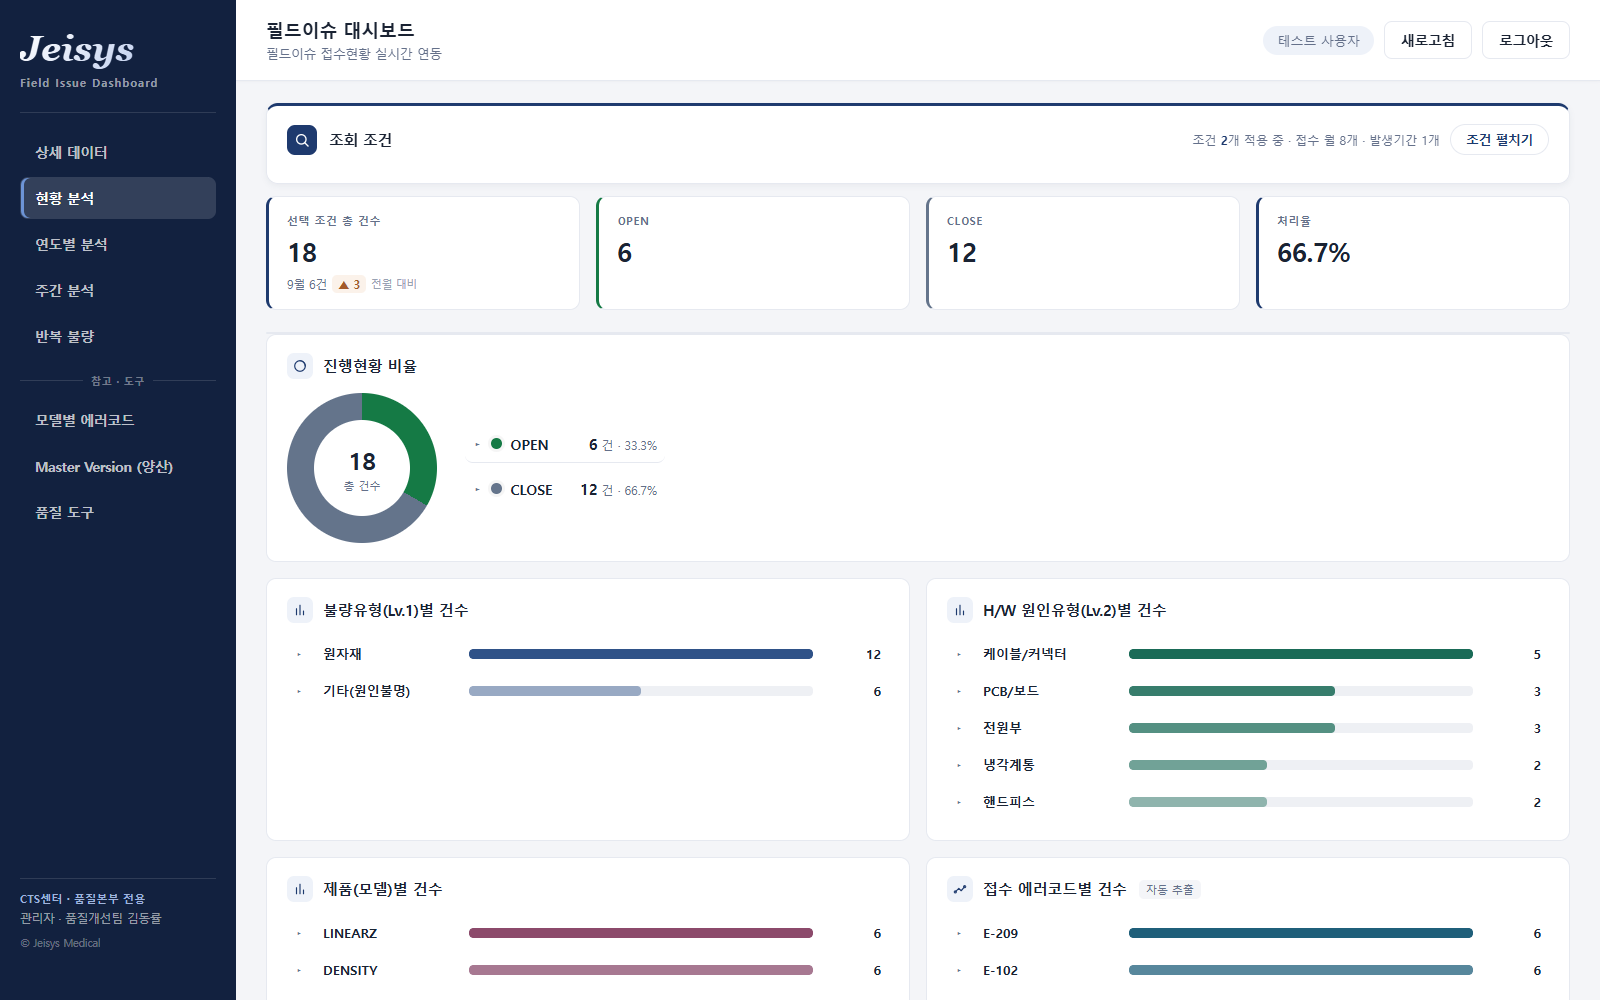
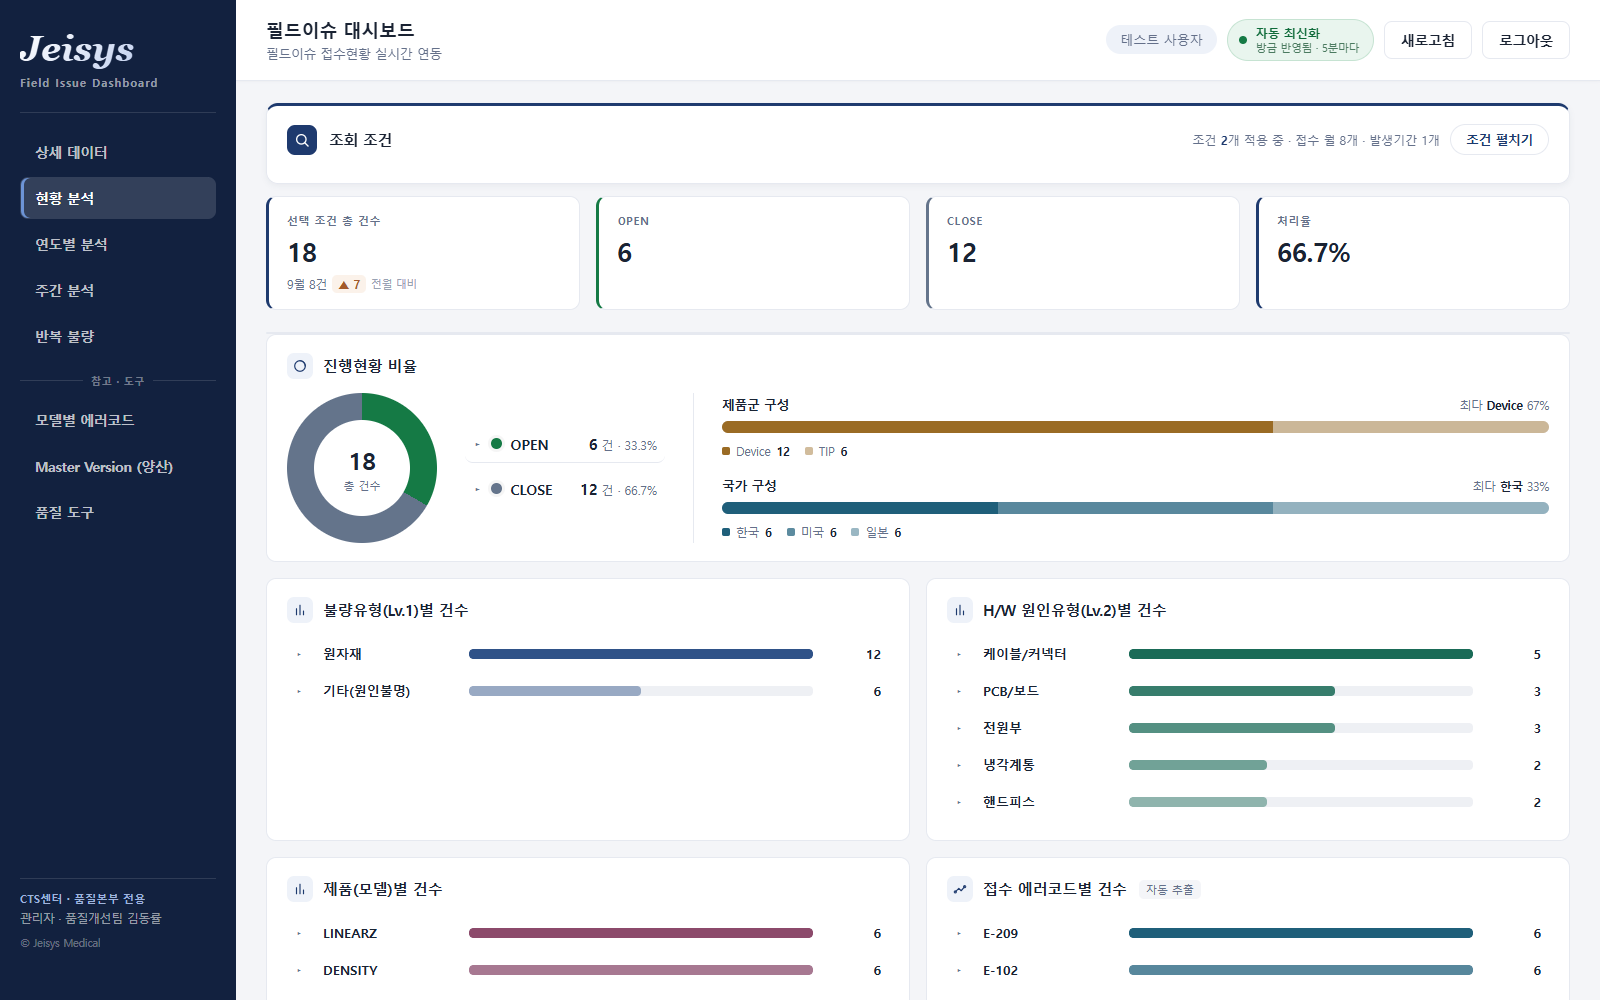
발표자료 캡처를 최신 화면으로 갱신
자동 최신화 표시와 도넛 카드 구성 요약이 들어간 뒤로
덱의 캡처 5장이 모두 옛 화면이었습니다.

- 캡처 5장 재촬영 (상단 자동 최신화 칩 · 제품군/국가 구성 막대 반영)
- 해결책 슬라이드 문구를 '5분마다 저절로 반영됩니다'로 수정해
  캡처에 보이는 내용과 맞춤

diff --git a/tools/ppt-build.js b/tools/ppt-build.js
@@ -251,7 +251,7 @@ function foot(s, text) {
   shot(s, "c-detail.png", { x: 4.62, y: 1.72, w: 8.16, h: 5.1 });
 
   const pts = [
-    ["실시간 연동", "팀즈에 입력하면 몇 분 안에 반영됩니다. 따로 옮기지 않습니다."],
+    ["실시간 연동", "팀즈에 입력하면 5분마다 저절로 반영됩니다. 새로고침도 필요 없습니다."],
     ["설치 없음", "프로그램을 깔지 않습니다. 회사 계정으로 링크만 열면 됩니다."],
     ["원본 보존", "모든 행에서 팀즈 원본으로 바로 갑니다. 메모도 그대로 봅니다."],
   ];
